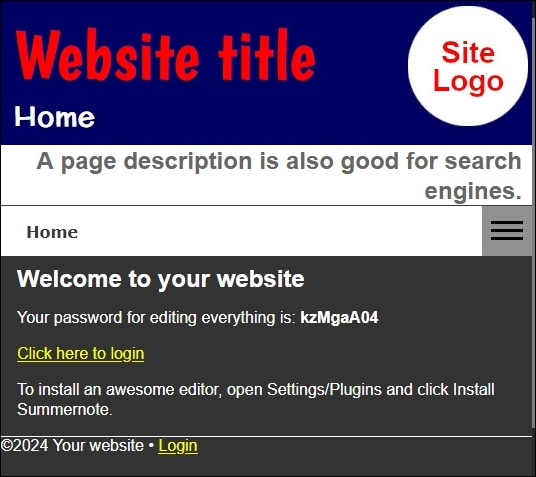
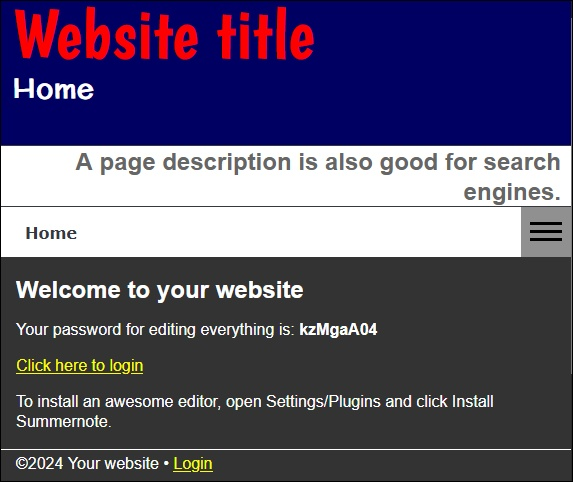
Add files via upload

Changed region(s): [[0.0, 0.0, 1.0, 0.9979], [0.0, 0.0, 0.597, 0.2642], [0.0299, 0.4696, 0.1493, 0.499]]

diff --git a/README.md b/README.md
@@ -8,27 +8,30 @@ On installation screens wider than 600px will look like this:
 
 The body of any page is limited to a maximum 900px wide.
 
-The header showing the blue background and logo disc is an easily deleted or substituted background image. If deleted, by default the plain dark blue background colour is revealed. All text above the menu bar is taken from fields on the "Settings > Menu" and "Settings > Current Page" screens. When sub-pages are added, on hover, the menu shows these on drop-downs beneath the top level item
+The CSS file installed with the theme allows the plain dark blue header background to be replaced with an image. Sample images and guidance notes are provided in a "resources" folder that is installed with the theme.
+
+All text above the menu bar is taken from fields on the "Settings > Menu" and "Settings > Current Page" screens. When sub-pages are added, on hover, the menu shows these on drop-downs beneath the top level item
 
 ## Preview - Narrow Screens
 
 ![Narrow screen preview](/previewnarrow.jpg)
 
-On narrow screens the Site and Page titles switch the left alignment and an alternative background image is displayed. The menu always shows the HOME page. Further options are revealed by clicking the [&equiv;] button.
+On narrow screens the Site and Page titles switch to left alignment. An alternative background image can displayed.
 
-The menu reveals sub-pages on a hover action, producing the usual problems on touchscreen devices. (I am not aware of a coding technique to avoid such touchscreen issues, without editing to the index.php file, which is not recommended by Wcms.)
+The menu always shows the HOME page. Further options are revealed by clicking the [&equiv;] button. Sub-pages appear on a hover action.
 
-Currently, the stylesheet dos not support multiple sub-page levels.
+Currently, the stylesheet only supports one level of sub-pages.
 
 ## Other Features of the Theme
-When "section" tags are applied to the site a thin white line is added above the block.
-
-When the class "caption" is added to an tag a thin white border is applied (intended for use on images!)
-
-When a class "left" or "right" is applied to an "img" tag the image will have a thin white border addded. On wide screens the image will be placed to one side and not exceed 50% of the window width. On narrow screens the image will occuply the full width.
+### Colour Schemes
+The "style.css" file starts with a set of variables that set all the colours used in the default theme. The "resources" folder installed with the theme contains a file "colourschemes.txt". It contains some hints and tips on how the variables are used. The file includes a number of sample colour scheme declarations. The folder also holds preview images of them.
+### Header Area
+The theme's "images" folder holds some sample images that can be displayed as backgrounds to the area of the header that, in the default installation, is dark blue. Rename any 900px image to "headerwide.jpg" or any 600px wide image to "headernarrow.jpg" and they will replace the dark blue area in the wide and narrow screens. The wide images are set to the left so any prominent feature in them will stay fixed to the left of the window as it is reduced in size. Likewise the narrow images are set to the right.
+### Main Area
+A 1px border is applied to all images. Images will occupy with full width of the window and will shrink as the window is narrowed. A class "left" or "right" can be applied to an "img" tag. On wide screens the image will be placed on that side and not exceed 50% of the window width. On narrow screens all images will occuply the full width of the window.
 
 ## Future Development
-The CSS file starts with a complete list of the colours used in the default theme. They are declared as variables to make it easy to create alternative colour schemes. I intend to add a "resources" folder to later versions of the theme. It is hoped this will include a number of sample colour declarations for the theme and header image files as well as tips on other ways the theme can be customised. Others are invited to submit items that could be included in the resources folder.
+Contributions of additional colour schemes and header backgrounds that can be included in the "resources" folder in future versions of the theme are welcome.
 
 ## How to install
 1. Copy this URL:
